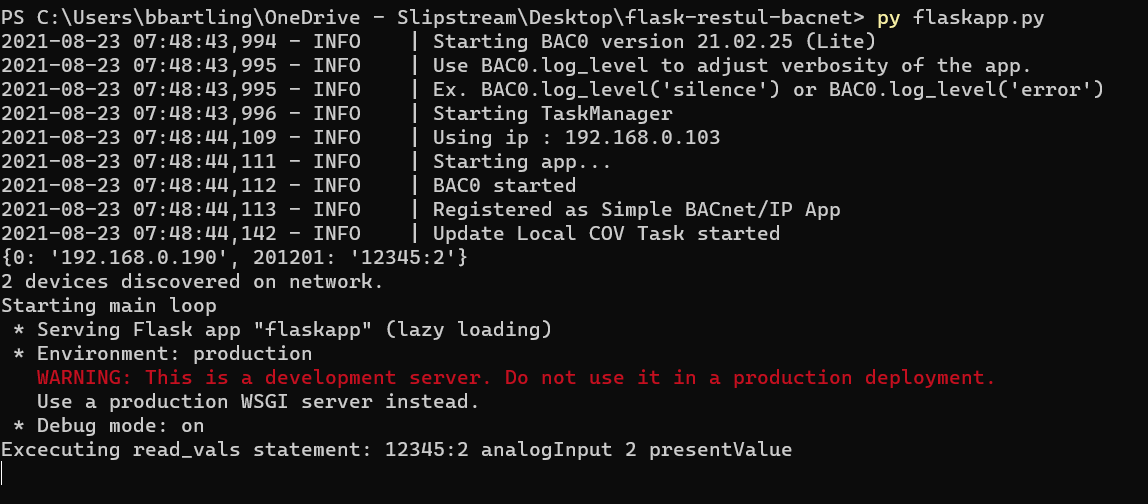
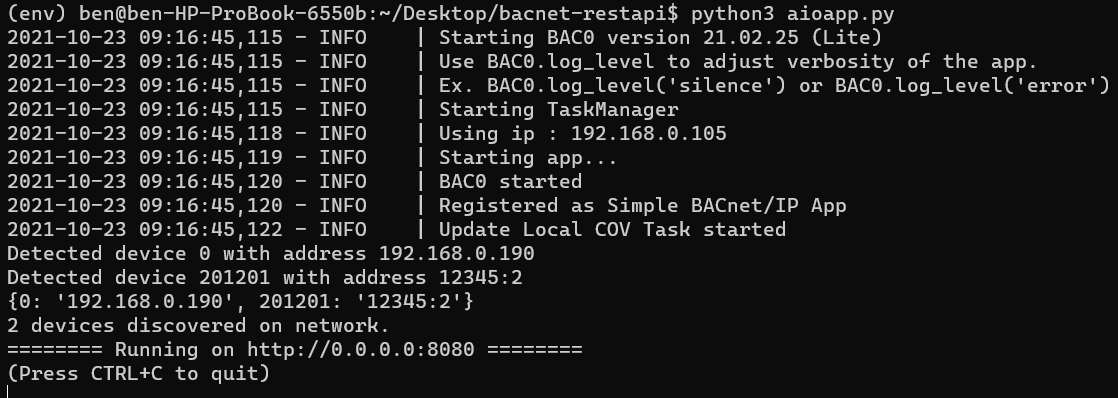
pydantic change3

Changed region(s): [[0.0, 0.0, 1.0, 0.9648], [0.6386, 0.7236, 0.8515, 0.7839]]

diff --git a/README.md b/README.md
@@ -32,11 +32,17 @@ $ unzip bacnet-restapi.zip
 # change the directory
 $ cd bacnet-restapi
 
+# create virtual enviornment
+$ python3 -m venv env
+
+# activate virtual enviornment
+$ source env/bin/activate
+
 # install packages
-$ pip install -r requirements.txt
+$ pip3 install -r requirements.txt
 
 # start the restapi web app
-$ python aioapp.py
+$ python3 aioapp.py
 ```
 
 On startup BAC0 performs a BACnet "whois" where the screenshot below shows 2 BACnet devices that replied. Device 192.168.0.190 is an IP based BACnet device and device 201201 (BACnet instance ID) on MSTP network 12345 with hardware address 2 shown. This App supports both MSTP devices and IP based BACnet controllers.
@@ -46,6 +52,8 @@ On startup BAC0 performs a BACnet "whois" where the screenshot below shows 2 BAC
 ![Start Up](/images/startup.PNG)
 
 
+# Swagger for open API:
+Go to [http://127.0.0.1:8080/oas](http://127.0.0.1:8080/oas)
 
 
 ## Node Red Example Flows
